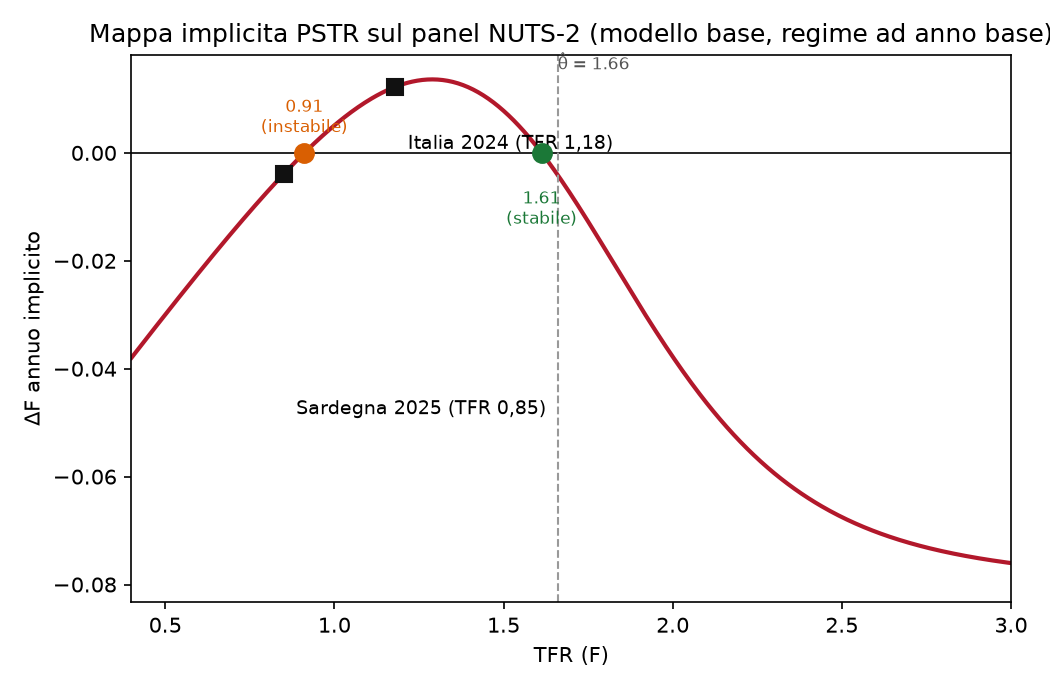
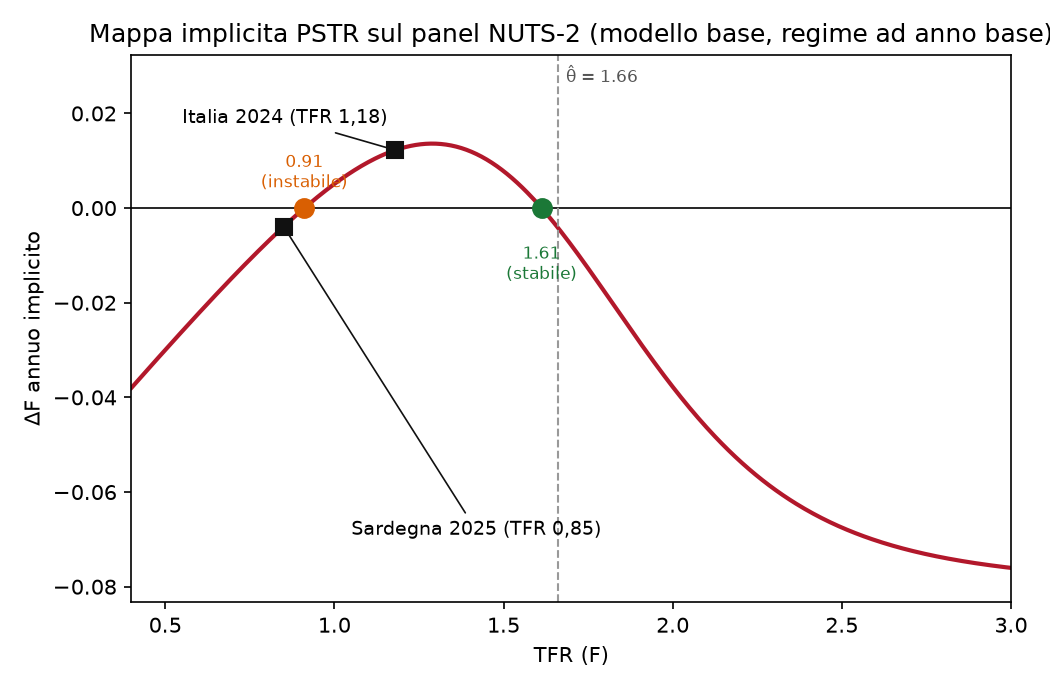
Figura costi_ltc: banda ora replica esattamente il MC cap.5 (B=5000, demografia ristimata per replica) - coincide con headline 32,3 [20,6;44,2]; fix annotazioni/legende altre figure; nota divergenza in docs/20

diff --git a/src/plots.py b/src/plots.py
@@ -8,7 +8,7 @@ Figure:
 1. piramide_2026_2056.png  - piramide della popolazione, 2026 vs 2056
 2. mappa_pstr.png          - mappa implicita f(F) con soglia e attrattore
 3. traiettoria_dimezzamento.png - fan chart di scenario (TFR, migrazioni)
-4. costi_ltc.png          - costo LTC annuo 2026-2081 (deterministico + banda MC)
+4. costi_ltc.png          - costo LTC annuo 2026-2081 (banda MC cap. 5, B=5.000)
 """
 
 import sys
@@ -45,7 +45,7 @@ def plot_piramide():
         ax.barh(anni, f, color="#b2182b", label="femmine", height=1)
         ax.barh(anni, m, color="#2166ac", label="maschi", height=1)
         ax.set_title(f"{2026 + t}")
-        ax.set_xlim(-450, 450)
+        ax.set_xlim(-500, 500)
         ax.axvline(0, color="k", lw=0.5)
     axes[0].set_ylabel("età")
     axes[0].set_xlabel("migliaia")
@@ -81,17 +81,20 @@ def plot_mappa_pstr():
         ax.annotate(f"{Fr:.2f}\n({tipo})", (Fr, 0), textcoords="offset points",
                     xytext=(0, 10 if tipo == "instabile" else -34),
                     ha="center", fontsize=8, color=colore)
-    for tfr, nome, dy in ((1.18, "Italia 2024 (TFR 1,18)", -0.005),
-                           (0.85, "Sardegna 2025 (TFR 0,85)", -0.038)):
+    for tfr, nome, tx, ty in ((1.18, "Italia 2024 (TFR 1,18)", 0.55, 0.019),
+                               (0.85, "Sardegna 2025 (TFR 0,85)", 1.05, -0.068)):
         idx = int(np.argmin(np.abs(F_grid - tfr)))
         ax.plot([tfr], [f[idx]], "s", color="#111", ms=8, zorder=6)
-        ax.annotate(nome, (tfr, f[idx] + dy), fontsize=9,
-                    ha="left", xytext=(6, -10), textcoords="offset points",
-                    va="top")
+        ax.annotate(nome, (tfr, f[idx]), xytext=(tx, ty), textcoords="data",
+                    fontsize=9, ha="left", va="center",
+                    arrowprops=dict(arrowstyle="-", color="#111", lw=0.8))
     theta = base_year["theta"]
     ax.axvline(theta, color="#999", ls="--", lw=1)
-    ax.annotate(f"θ̂ = {theta:.2f}", (theta, ax.get_ylim()[1] * 0.85),
-                fontsize=8, color="#555")
+    ymin, ymax = ax.get_ylim()
+    ax.set_ylim(ymin, ymax + 0.14 * (ymax - ymin))
+    ax.annotate(f"θ̂ = {theta:.2f}", (theta, 1),
+                xycoords=("data", "axes fraction"), xytext=(4, -5),
+                textcoords="offset points", va="top", fontsize=8, color="#555")
     ax.set_xlabel("TFR (F)")
     ax.set_ylabel("ΔF annuo implicito")
     ax.set_title("Mappa implicita PSTR sul panel NUTS-2 (modello base, regime ad anno base)")
@@ -120,63 +123,83 @@ def plot_traiettoria():
                                    tfr_scale=scala, net_migration_total=saldo)
         ax.plot(range(2026, 2082), tot / 1e6, color=colore, lw=2, label=nome)
     ax.axhline(tot[0] / 1e6 / 2, color="#999", ls=":", lw=1)
-    ax.annotate("metà della popolazione 2026", (2027, tot[0] / 1e6 / 2 + 0.5),
-                fontsize=8, color="#555")
+    ax.annotate("metà della popolazione 2026", (2027, tot[0] / 1e6 / 2 + 0.4),
+                fontsize=8, color="#555", ha="left", va="bottom")
     ax.set_xlabel("anno")
     ax.set_ylabel("milioni")
     ax.set_title("Scenari di traiettoria della popolazione (Leslie due sessi)")
-    ax.legend(fontsize=8, loc="lower left")
+    # legenda sotto gli assi: non copre più la linea del dimezzamento a sinistra
+    ax.legend(fontsize=8, loc="upper center", bbox_to_anchor=(0.5, -0.18),
+              ncol=2)
     fig.tight_layout()
-    fig.savefig(FIG / "traiettoria_dimezzamento.png", dpi=150)
+    fig.savefig(FIG / "traiettoria_dimezzamento.png", dpi=150,
+                bbox_inches="tight")
     plt.close(fig)
 
 
 def plot_costi_ltc():
     import numpy as np
-    from ltc_montecarlo import annual_cost_mc
-    from leslie import load_processed, simulate_two_sex
-    from ltc import prevalence_by_age
-    # rigenerazione della banda: MC ridotto (B=200) con le stesse regole del cap. 5
+    from leslie import load_processed
+    # replica esatta del cap. 5 (monte_carlo_ltc): B=5.000, seed=7, demografia
+    # ristimata per replica (rho e scala TFR campionati) — cosi' la banda
+    # della figura coincide con i numeri headline della release (docs/17)
     from ltc_montecarlo import (COST_DOMICILIARE, COST_RESIDENZIALE_MG,
                                 SEVERITY_CONCENTRATION, SEVERITY_MIX,
-                                SHARE_DOMICILIARE_CENTER, monte_carlo_ltc)
+                                SHARE_DOMICILIARE_CENTER, SEX_MULTIPLIER,
+                                simulate_claimants_m, annual_cost_mc)
+    from ltc_costi import R_LOGIT_PENDENZA, R_RATIO_INFLESSO
 
     rng = np.random.default_rng(7)
     data = load_processed()
-    out = simulate_two_sex(data["n0"], data["n0_male"], data["fertility"],
-                           data["survival"], data["survival_male"], years=55,
-                           net_migration_total=280_000.0, store_ages=True)
-    tot, tr_f, tr_m, ages_f, ages_m = out
-    prev = prevalence_by_age(len(data["n0"]) - 1)
-    claimants = ((ages_f + ages_m) * prev[None, :]).sum(axis=1)
-    caregivers = (ages_f + ages_m)[:, 45:65].sum(axis=1)
-    ratio = caregivers / claimants
+    n0_f, n0_m = data["n0"], data["n0_male"]
+    fert = data["fertility"]
+    P_f, P_m = data["survival"], data["survival_male"]
 
-    anni = np.arange(2026, 2082)
-    B = 200
-    costs = np.zeros((B, len(anni)))
+    B, years, saldo = 5_000, 55, 280_000.0
+    T = years + 1
+    costs = np.zeros((B, T))
     for b in range(B):
+        sex_mult_f = rng.lognormal(np.log(SEX_MULTIPLIER["F"]), 0.10)
+        sex_mult_m = rng.lognormal(np.log(SEX_MULTIPLIER["M"]), 0.10)
         sev = rng.dirichlet(SEVERITY_MIX * SEVERITY_CONCENTRATION)
         cost_dom = rng.lognormal(np.log(COST_DOMICILIARE), 0.15)
         cost_res = rng.lognormal(np.log(COST_RESIDENZIALE_MG), 0.10)
         share = rng.beta(SHARE_DOMICILIARE_CENTER * 100, 35)
-        r0 = rng.normal(11.0, 1.0)
-        bb = rng.lognormal(np.log(2.0), 0.10)
+        r0 = rng.normal(R_RATIO_INFLESSO, 1.0)
+        bb = rng.lognormal(np.log(R_LOGIT_PENDENZA), 0.10)
+        rho = rng.uniform(0.0, 0.01)
+        tfr_scale = rng.normal(1.0, 0.03)
+        cl_f, cl_m, claimants, ratio = simulate_claimants_m(
+            n0_f, n0_m, fert, P_f, P_m, tfr_scale, rho, years, saldo,
+            sex_mult_f=sex_mult_f, sex_mult_m=sex_mult_m)
         costs[b] = annual_cost_mc(claimants, ratio, sev, cost_dom, cost_res,
                                   share, r0, bb) / 1e9
 
+    anni = np.arange(2026, 2026 + T)
+    q05, med, q95 = (np.quantile(costs, p, axis=0) for p in (0.05, 0.50, 0.95))
+
     fig, ax = plt.subplots(figsize=(8, 4.6))
-    ax.fill_between(anni, np.quantile(costs, 0.05, axis=0),
-                    np.quantile(costs, 0.95, axis=0), color="#2166ac",
-                    alpha=0.25, label=" Monte Carlo 90% (parametri severità/costi)")
-    ax.plot(anni, np.median(costs, axis=0), color="#2166ac", lw=2,
-            label="mediana MC")
+    ax.fill_between(anni, q05, q95, color="#2166ac",
+                    alpha=0.25, label="Monte Carlo 90% (parametri + demografia ristimata per replica)")
+    ax.plot(anni, med, color="#2166ac", lw=2, label="mediana MC")
+    i2056 = 2056 - 2026
+    lab = (f"2056: {med[i2056]:.1f}".replace(".", ",") + " mld € ["
+           + f"{q05[i2056]:.1f}".replace(".", ",") + "; "
+           + f"{q95[i2056]:.1f}".replace(".", ",") + "]")
+    ax.plot([2056], [med[i2056]], "o", color="#b2182b", ms=7, zorder=6)
+    ax.annotate(lab, (2056, med[i2056]), xytext=(-8, 22),
+                textcoords="offset points", fontsize=9, color="#b2182b",
+                fontweight="bold", ha="right",
+                arrowprops=dict(arrowstyle="-", color="#b2182b", lw=0.8))
     ax.set_xlabel("anno")
     ax.set_ylabel("miliardi di € (prezzi 2026)")
-    ax.set_title("Costo formale annuo LTC — banda Monte Carlo (cap. 5, regime parametrico)")
-    ax.legend(fontsize=8)
+    ax.set_title("Costo formale annuo LTC — banda Monte Carlo cap. 5 (B=5.000, regime parametrico)")
+    ax.legend(fontsize=8, loc="upper left")
     fig.tight_layout()
     fig.savefig(FIG / "costi_ltc.png", dpi=150)
+    print("LTC 2056 — mediana:", round(float(med[i2056]), 1),
+          "| q05:", round(float(q05[i2056]), 1),
+          "| q95:", round(float(q95[i2056]), 1))
     plt.close(fig)
 
 

diff --git a/docs/20_audit_finale.md b/docs/20_audit_finale.md
@@ -19,6 +19,8 @@ Due bug strutturali trovati e corretti nel ciclo (entrambi con test che dimostra
 1. **Classe terminale 100+ trattata come chiusa**: la TVM dice P[100]≈0,64 ma la pipeline forzava 0 — tutti i 100+ uscivano in un anno. Corretto in `parse_istat` (P[100] reale), `leslie.survive` + matrice + `leslie_regionale` (classe aperta ritiene n[100]·P[100]). Test: `test_classe_terminale_aperta_ritiene_i_sopravviventi`, `test_matrice_leslie_con_diagonale_terminale`.
 2. **Moltiplicatori di sesso campionati e mai usati nel Monte Carlo LTC**: la banda di incertezza risultava artificially stretta sulla dimensione sesso. Corretto in `simulate_claimants_m(..., sex_mult_f, sex_mult_m)`; il MC ora li propaga. Test: `test_moltiplicatore_campionato_arranta_i_claimants` (2× donna → claimants F ↑ >20%, M invariati).
 
+3. **Banda della figura `costi_ltc.png` non conforme al cap. 5** (post-v1.1.0, corretto in v1.1.2-editoriale): il pannello di rigenerazione usava un MC ridotto ad-hoc (B=200, demografia fissa a saldo 280k, severità/costi campionati) invece di replicare `monte_carlo_ltc` — la banda disegnata divergeva dai numeri headline della release (32,3 [20,6; 44,2]). `plot_costi_ltc` ora replica esattamente il cap. 5 (B=5.000, seed=7, demografia ristimata per replica con ρ/scala TFR/moltiplicatori sesso campionati) e stampa i quantili di verifica: 2056 → mediana 32,3, q05 20,6, q95 44,2, coincidenti con docs/17.
+
 Copertura: **82 test automatici**, CI end-to-end (download ISTAT + parse + test a ogni push).
 
 ## Livello 3 — Statistico/econometrico
